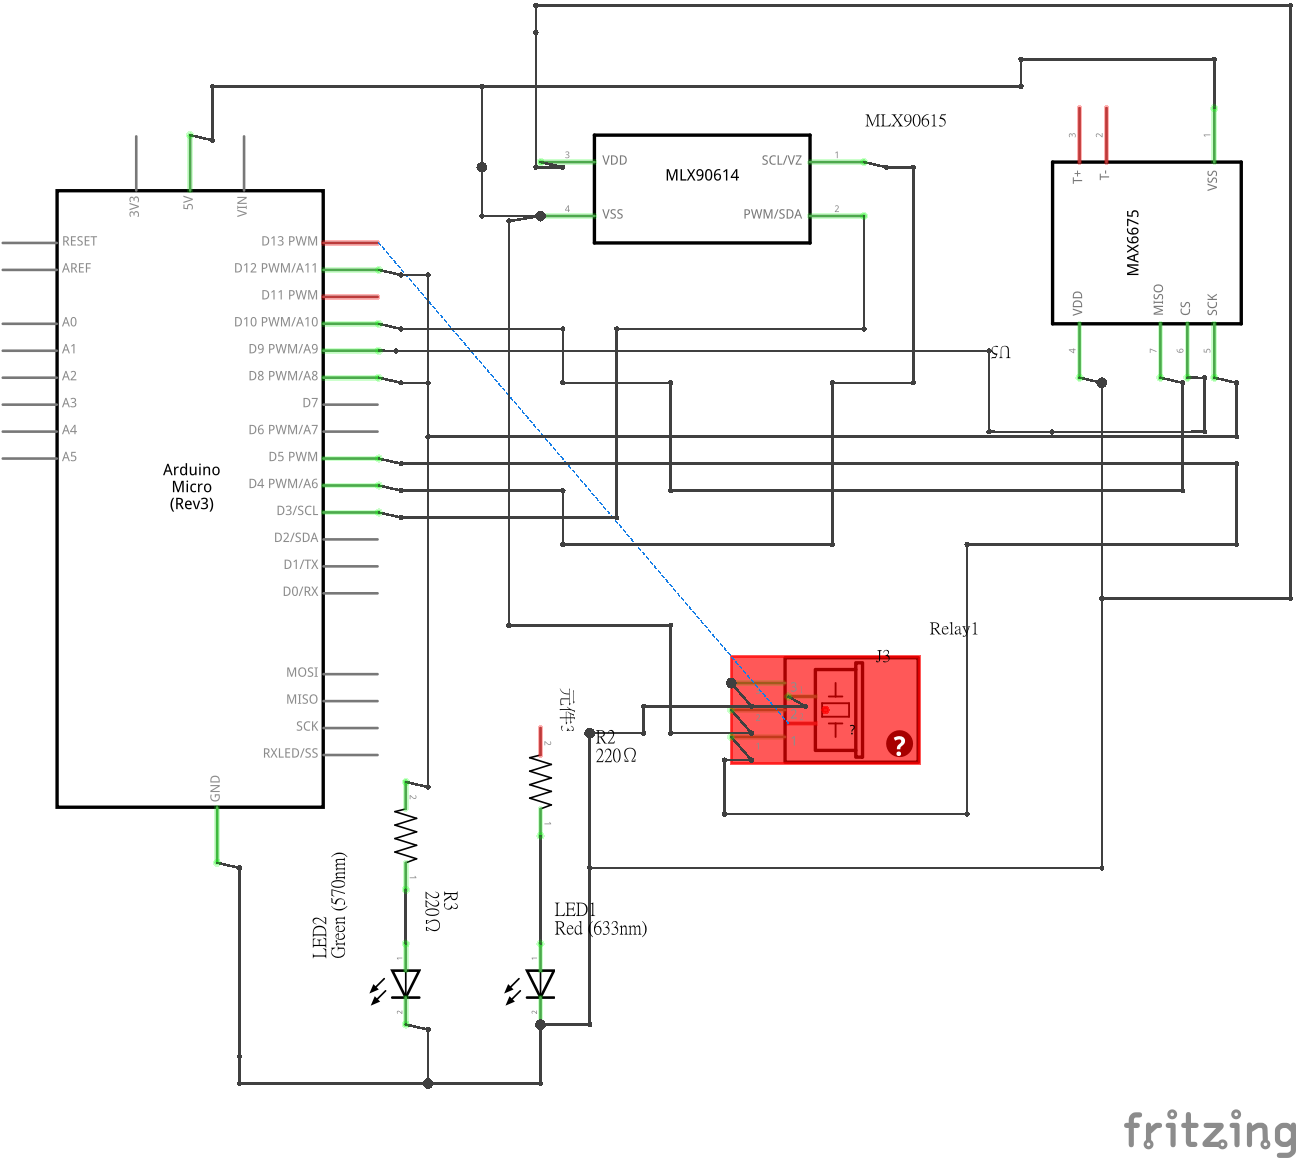
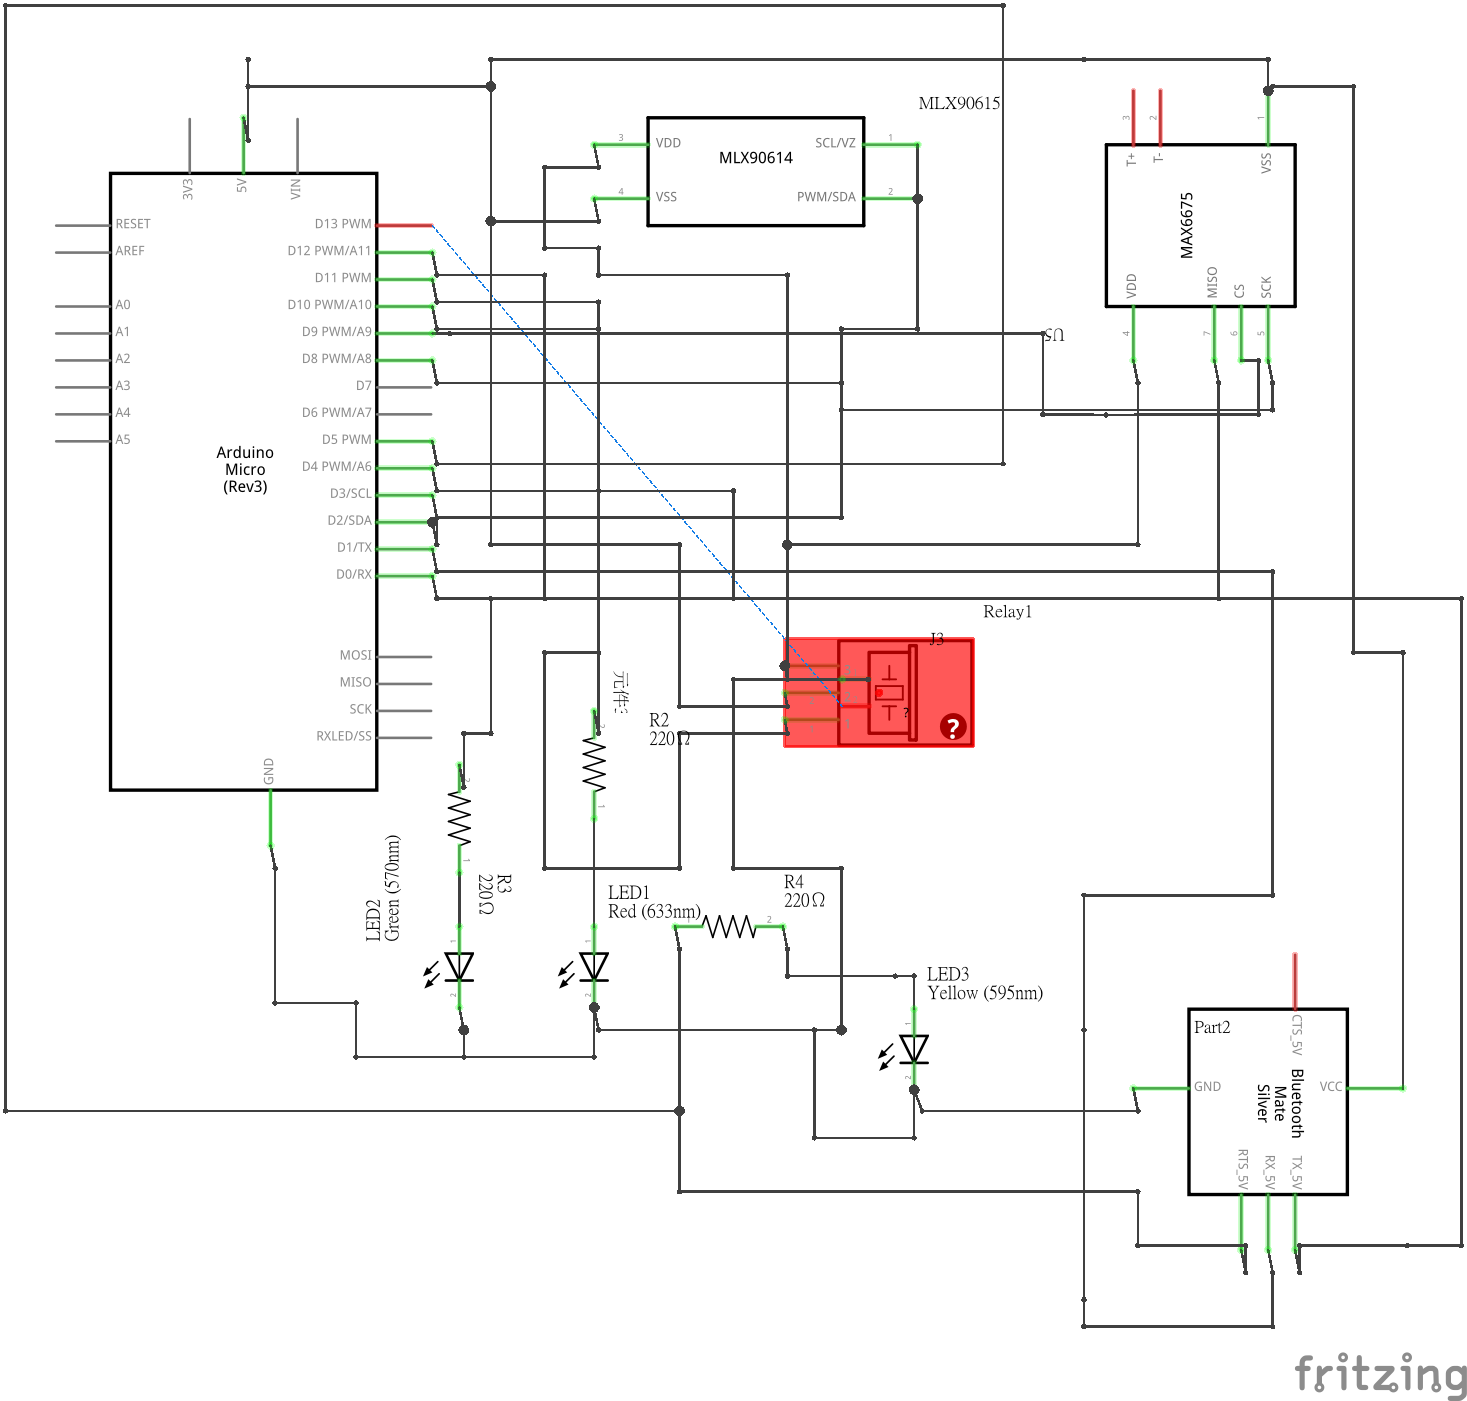
[revise] 更新文件

diff --git a/README.md b/README.md
@@ -12,10 +12,11 @@
   HC-05 | 藍芽模組
   MAX6675 | K型電熱偶感溫模組 |
   MLX9614(5V) | 非接觸紅外線感溫模組 |
-  Buzzer | 蜂鳴器 |
-  LED RED | |
-  LED GREEN | |
-   SRD(5v) | 電磁式 繼電器 |
+  Buzzer | 蜂鳴器，顯示藍芽連線狀態 |
+  LED RED | 系統狀態，ON：硬體裝置開始運行|
+  LED GREEN | Relay否允許啟動，ON：允許可以透過溫度設定繼電器開關, OFF: 繼電器不允許啟動 |
+  LED YELLOW | 顯示藍芽連線狀態，ON：裝置連線中, OFF: 未有裝置連線 |
+  SRD(5v) | 電磁式 繼電器 |
 
 ## 電路圖
 
@@ -36,26 +37,50 @@
 
 ## Arduino misco與相關傳感器連接腳位
 
+### MLX90614
+
    Arduino Pin   |   Sensor Pin   |
 ---------------- | -------------- |
  D2 | MLX90614_SDA |
  D3 | MLX90614_SCL |
  5v | MLX90614_Vdd |
  GND | MLX90614_Vss |
+
+### SRD
+
+   Arduino Pin   |   Sensor Pin   |
+---------------- | -------------- |
  D4 | SRD_IN |
  5v | SRD_VCC |
  GND | SRD_GND |
+
+### HC-05
+
+   Arduino Pin   |   Sensor Pin   |
+---------------- | -------------- |
  D5 | HC-05_SCK |
  TX | HC-05_RX |
  RX | HC-05_TX |
  5V | HC-05_VVV |
  GND | HC-05_GND |
+
+## MAX6675
+
+   Arduino Pin   |   Sensor Pin   |
+---------------- | -------------- |
  D8 | MAX6675_SCK |
  D9 | MAX6675_CS |
  D10 | MAX6675_SO |
  5V | MAX6675_VCC |
  GND | MAX6675_GND |
- D11 | LED RED _+|
- GND | LED RED_- |
- D12 | LED GREEN_+|
- GND | LED GREEN_- |
+
+## LED
+
+   Arduino Pin   |   Sensor Pin   |
+---------------- | -------------- |
+ D5 | LED **YELLOW** +|
+ GND | LED **YELLOW** GDN |
+ D11 | LED **RED** +|
+ GND | LED **RED** GND |
+ D12 | LED **GREEN** +|
+ GND | LED **GREEN** GDN |
